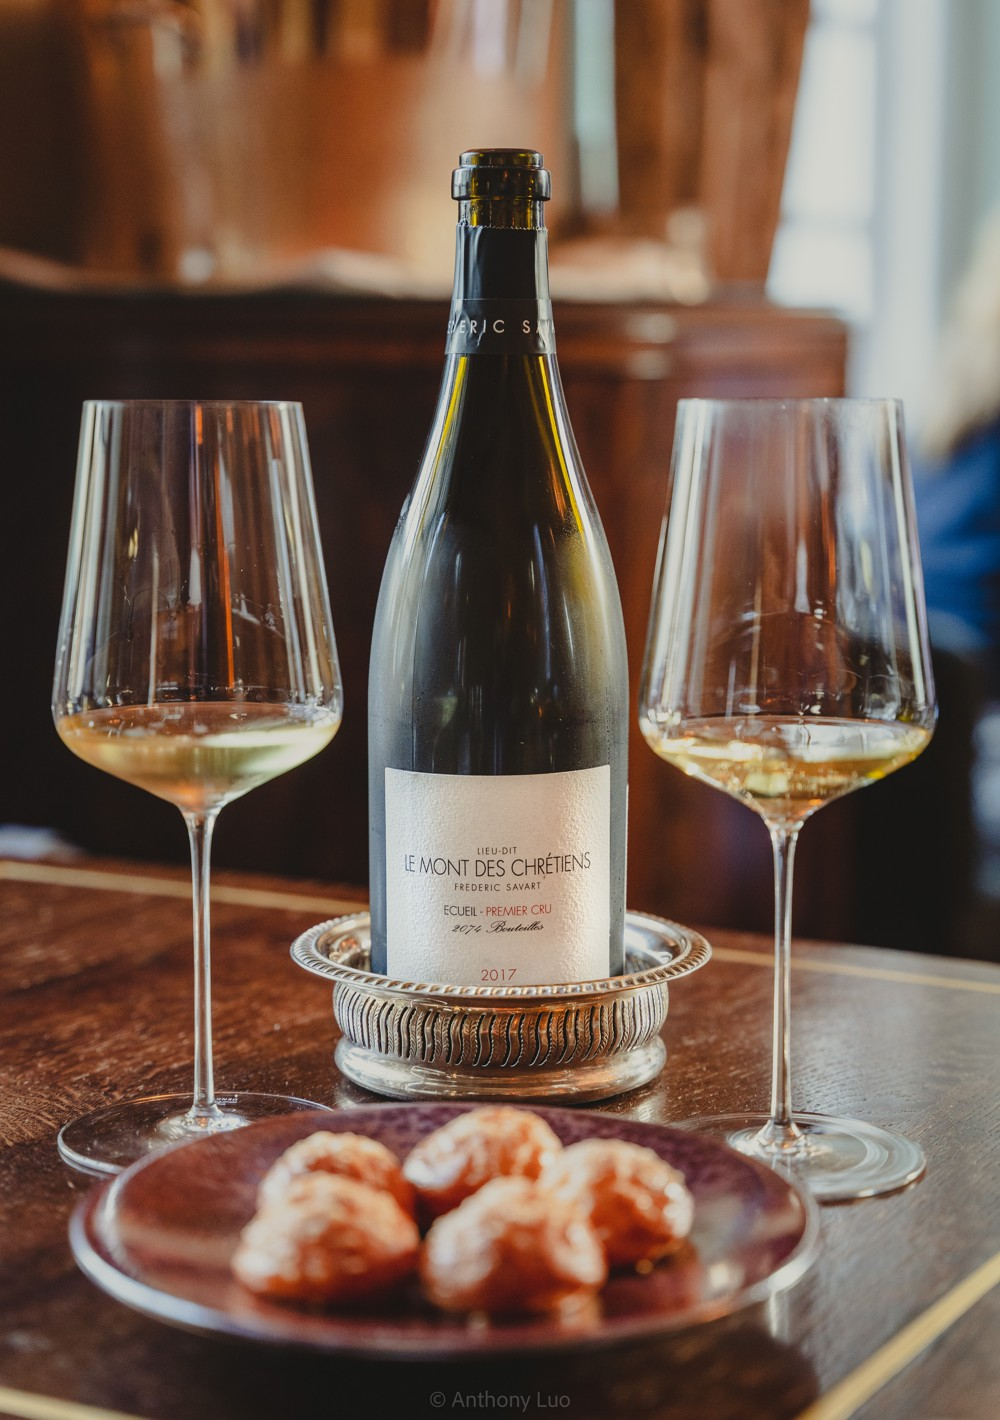
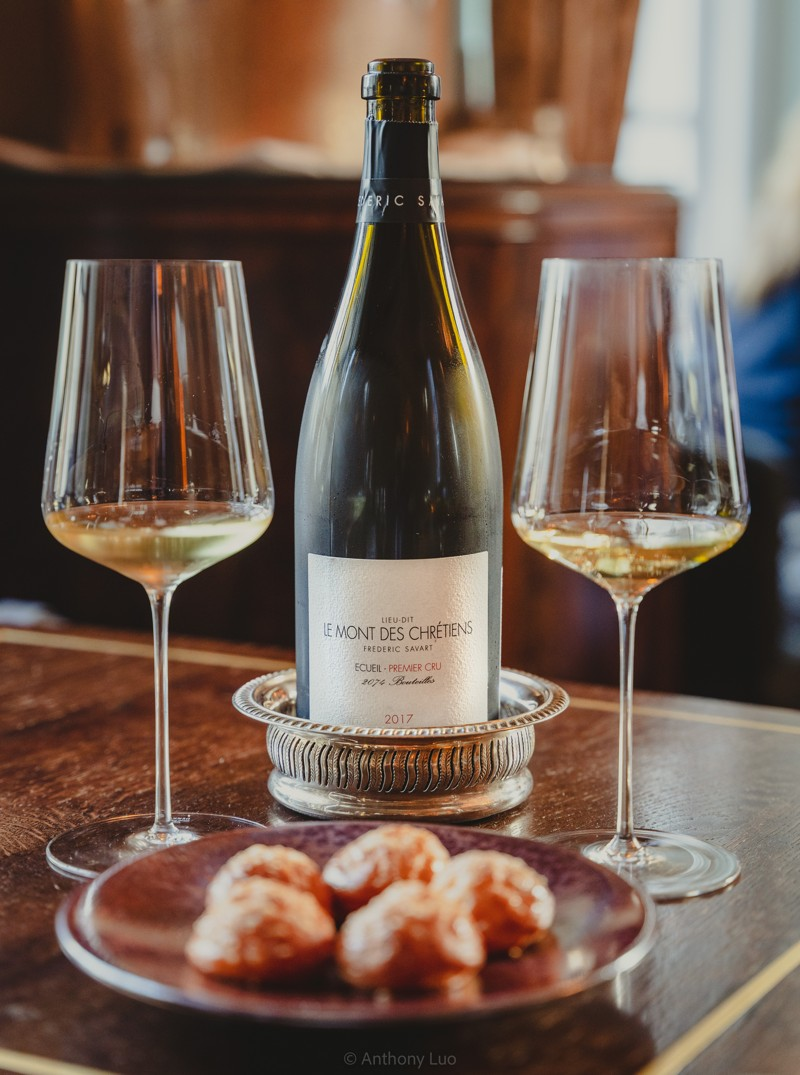
update photography page

diff --git a/photography.html b/photography.html
@@ -24,23 +24,37 @@
             contact me for full-size pictures and licensing.</h4>
         <div class="photoblock">
             <h2 class="food">Food Photography</h2>
-            <p class="food">Food photography combines my passion for food &amp; photography,
-                and I was the photographer for a food Instagram page (<a class="link"
+            <p class="food">I absolutely love food and trying new restaraunts.
+                Before COVID, I was the
+                photographer for
+                a food Instagram page (<a class="link"
                     href="https://www.instagram.com/forktastic_foods/">@forktastic_foods</a>) that a friend and I used
-                to run.
-                Some of my pictures have been featured by restaraunts (including Michelin-starred restaraunt <a
-                    class="link" href="https://www.instagram.com/p/B76T5evhhDR/?utm_source=ig_web_copy_link">The
+                to run. Although the Instagram page is no longer active, I've continued to bring my camera around to
+                restaraunts, bars, and everything food!
+            </p>
+            <p class="food">
+                Shown below is a
+                selection
+                of my photos, some of which were featured by restaraunts/companies (including formerly Michelin-starred
+                restaraunt <a class="link"
+                    href="https://www.instagram.com/p/B76T5evhhDR/?utm_source=ig_web_copy_link">The
                     Clocktower</a>).
-                Shown below are some highlights.</p>
+            </p>
             <div class="image-grid">
+                <img class="grid-photo" src="images/food/HutongLondon (1 of 2).jpg">
+                <img class="grid-photo" src="images/food/LittleMad (9 of 12).jpg">
+                <img class="grid-photo" src="images/food/SAGA (2 of 6).jpg">
+                <img class="grid-photo" src="images/food/67PallMallChampagne (1 of 1).jpg">
+                <img class="grid-photo" src="images/food/LittleRedDoorParis (1 of 1).jpg">
+                <img class="grid-photo" src="images/food/ExpensiveChampagne (1 of 1).jpg">
                 <img class="grid-photo" src="images/food/GiantMacaron-Small.jpg">
+                <img class="grid-photo" src="images/food/iDessert-Small.jpg">
                 <img class="grid-photo" src="images/food/Clocktower-Small.jpg">
                 <img class="grid-photo" src="images/food/SushiBou-Small.jpg">
-                <img class="grid-photo" src="images/food/TheNomad-Small.jpg">
                 <img class="grid-photo" src="images/food/JejuNoodleBar-Small.jpg">
-                <img class="grid-photo" src="images/food/iDessert-Small.jpg">
+                <img class="grid-photo" src="images/food/HIDELondon (3 of 5).jpg">
+
             </div>
-            <!-- TODO ADD CAPTIONS TO PICTURES -->
         </div>
         <div class="photoblock">
             <h2 class="food">Cityscape &amp; Landscape Photography</h2>

diff --git a/assets/css/anthonystyle.css b/assets/css/anthonystyle.css
@@ -327,6 +327,8 @@ a.header:hover {
 .imagegrid {
     display: flex;
     justify-content: space-between;
+    padding-top: 10vh;
+    padding-bottom: 10vh;
 }
 
 .grid-photo {

diff --git a/scripts/imagecrop.py b/scripts/imagecrop.py
@@ -4,7 +4,7 @@ from os.path import isfile, join
 
 # https://stackoverflow.com/questions/61201141/how-can-i-crop-an-image-with-11-aspect-ratio-using-pillow-in-python
 
-def crop_image(image):
+def crop_image_square(image):
     width, height = image.size
     if width == height:
         return image
@@ -15,18 +15,27 @@ def crop_image(image):
         image = image.crop([0,offset,width,height-offset])
     return image
 
-img_path = "/Users/anthonyluo/Documents/WebsiteFullPictures/nocrop"
+ratio = 1.345
+def crop_image_top_ratio(image):
+    width, height = image.size
+    newHeight = int(ratio * width)
+    image = image.crop([0,height - newHeight,width,height])
+    return image 
+
+
+img_path = "/Users/anthonyluo/Documents/WebsiteFullPictures/square"
 output_path = "images/food"
-onlyfiles = [f for f in listdir(img_path) if isfile(join(img_path, f))]
-dimension = 1000
+files = [f for f in listdir(img_path) if isfile(join(img_path, f))]
+dimension = 800
 
-crop = False 
+cropFunction = crop_image_square
 
-print(onlyfiles)
-for f in onlyfiles:
+print(files)
+for f in files:
+    if(".DS_Store" in f):
+        continue
     image = Image.open(join(img_path, f))
-    if(crop):
-        image = crop_image(image)
+    image = cropFunction(image)
     width, height = image.size
     image = image.resize((dimension,int(dimension * (height/width))))
     image.save(f'{output_path}/{f}', optimize=True, quality=90)  
